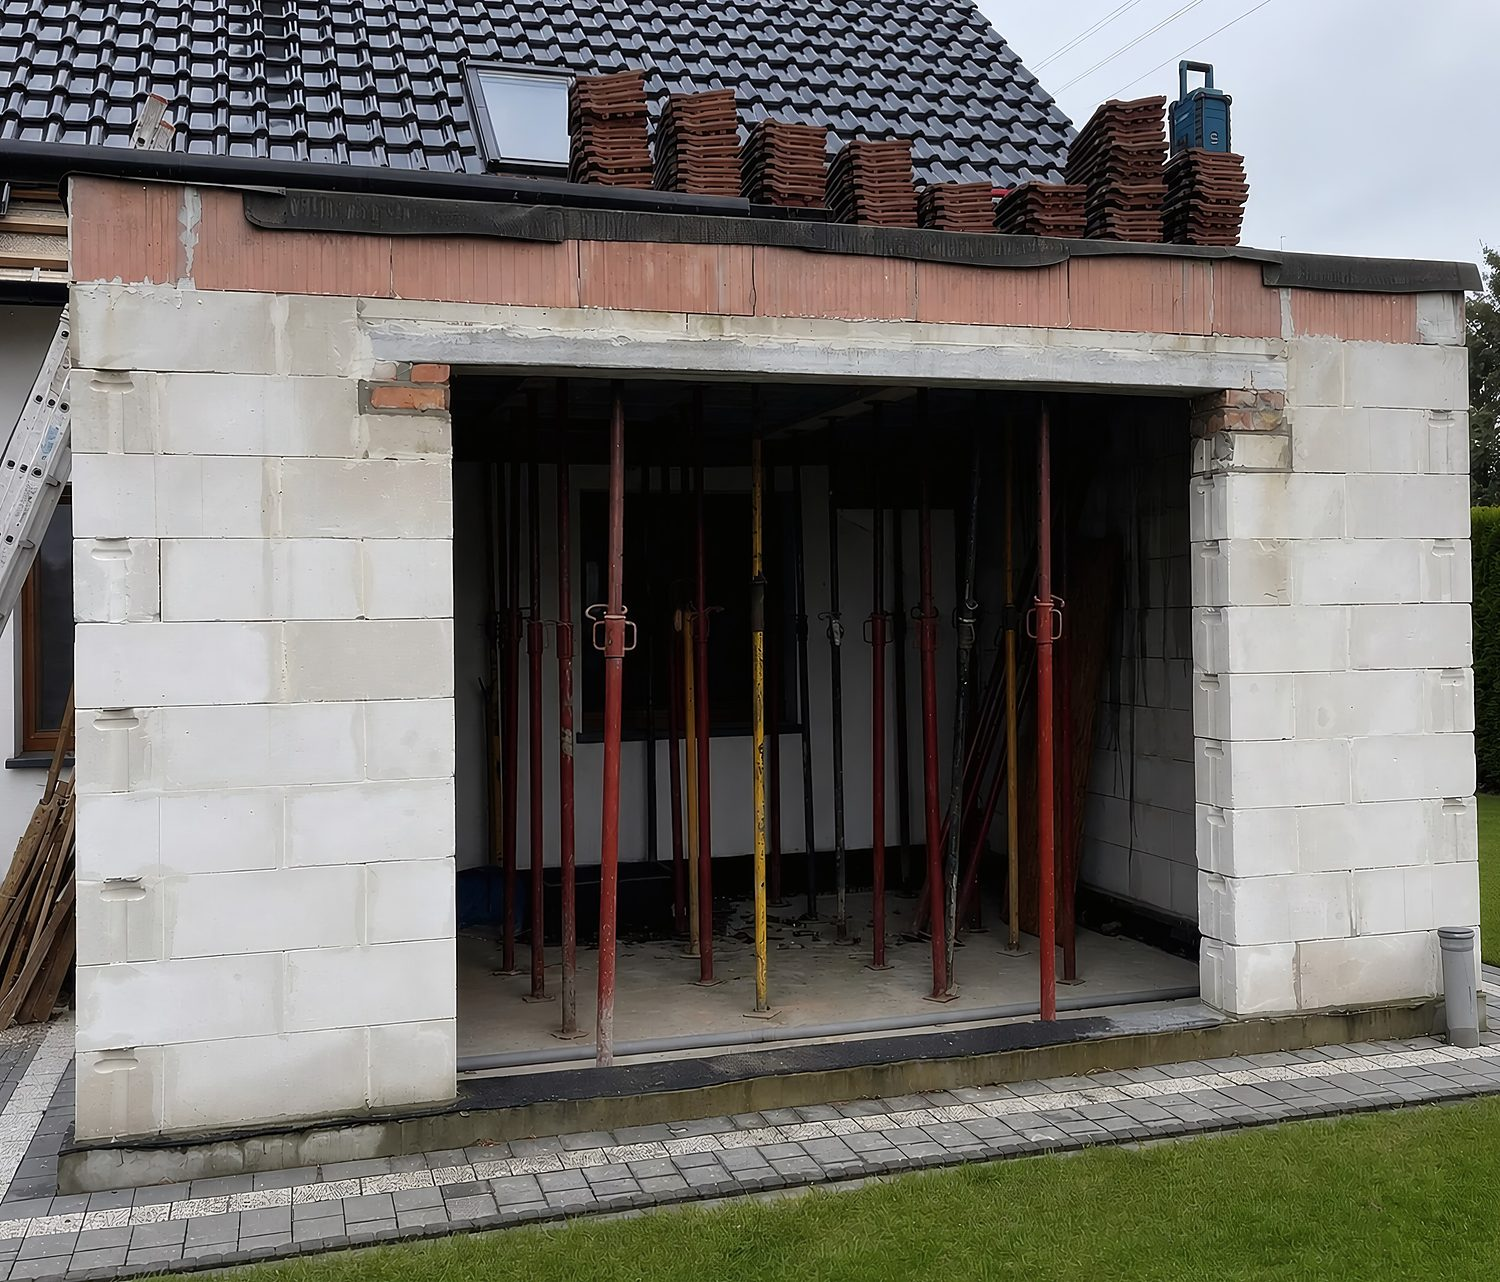
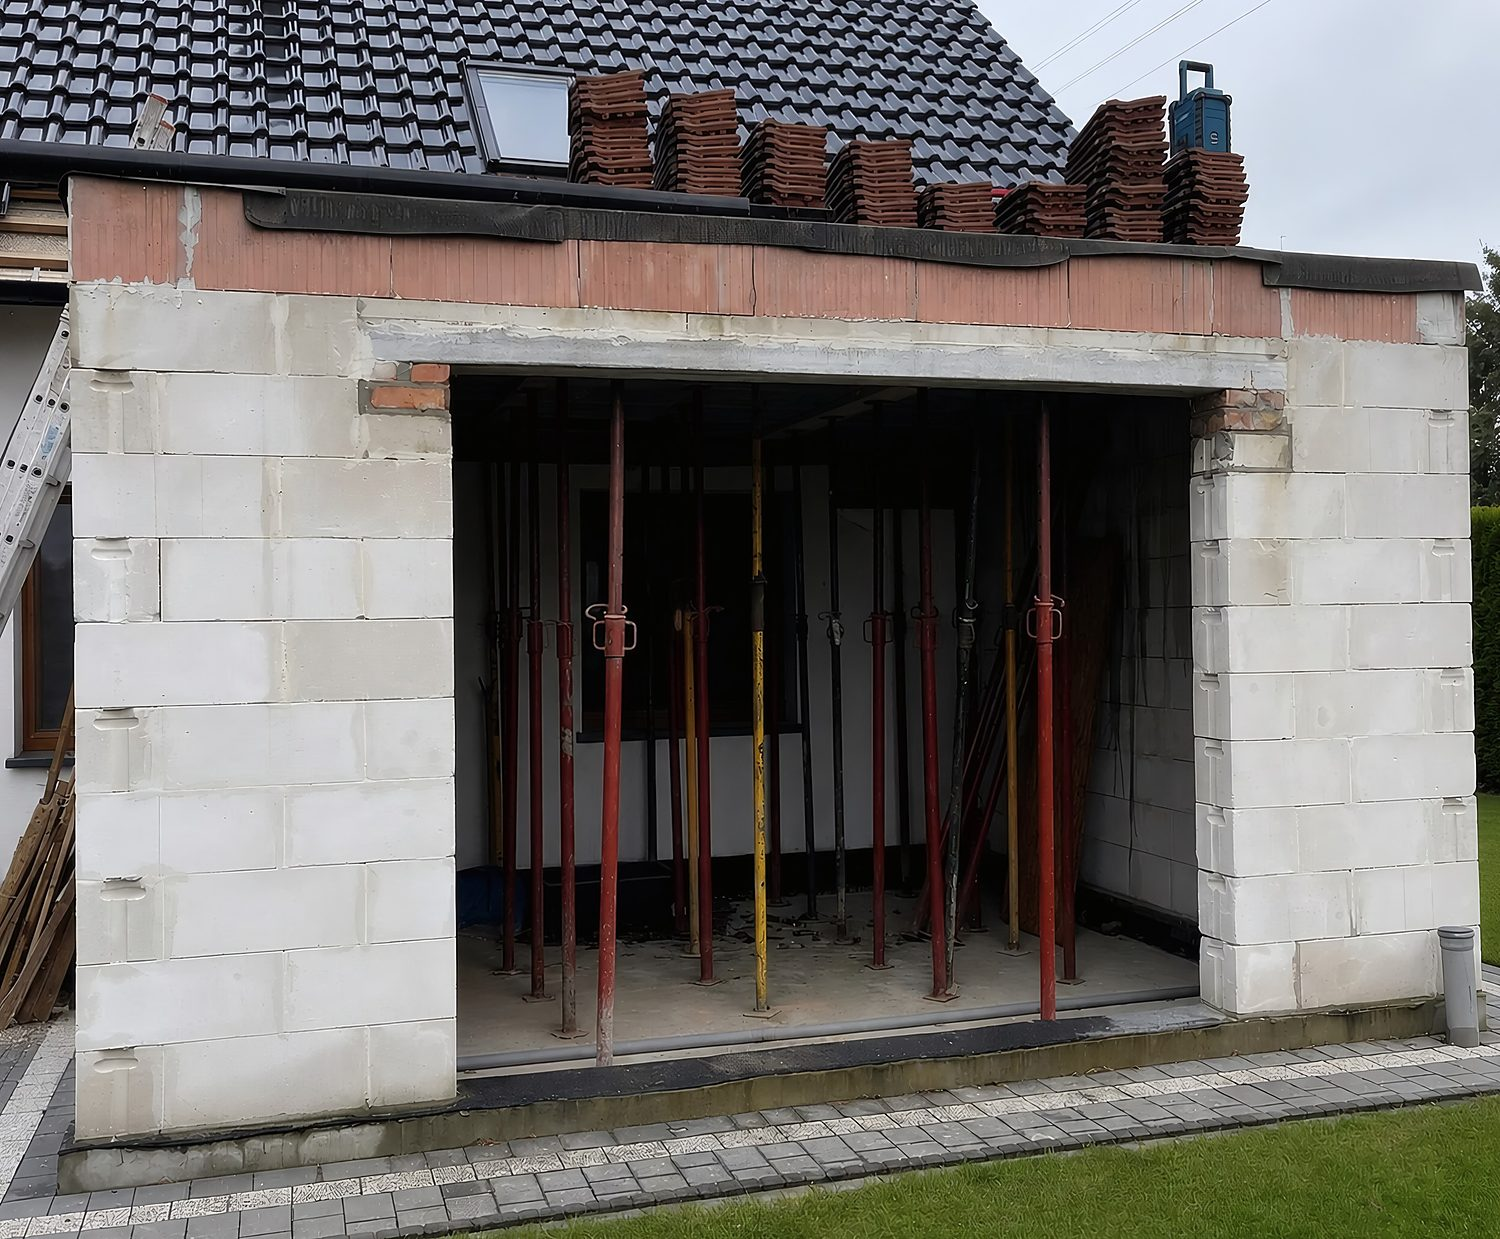
Suwak: dopasowanie kotwiczone na naroznikach elewacji, nie na otworze
K. zauwazyl, ze "przed jest nizej niz po". Przyczyna: pierwsza homografia stala
na czterech rogach otworu drzwiowego, a wykonczone osciezе jest o kilka cm mniejsze
niz surowy otwor w murze - przyklejenie ich co do piksela rozciagalo "po" o ~2 %
i wypychalo reszte elewacji w pionie.

- nowe punkty odniesienia: dwa NAROZNIKI ELEWACJI PRZY GRUNCIE (waga 3) + cztery
  rogi otworu (waga 1), dopasowanie najmniejszymi kwadratami zamiast dokladnego
  rozwiazania z czterech punktow.
- kontrola profilami krawedzi poziomych: linia opaski i gorna krawedz muru
  rozjezdzaja sie teraz o 1-5 jednostek na 1000 zamiast 18+.
- okno kadru przeliczone (998x826, proporcja 1,208); aspect-ratio i width/height
  zaktualizowane razem z nim.
- DESIGN.md: na czym wolno kotwiczyc, a na czym nie.

diff --git a/assets/app.css b/assets/app.css
@@ -303,12 +303,12 @@ a{text-decoration:none}
 /* ⛔ Ramka MUSI być osobnym elementem: `overflow:hidden` na <figure> ucinało podpis. */
 /* 🔴 K. 10.09.2026: „żeby to zdjęcie mieściło się w CAŁOŚCI na ekranie bez względu
    na rozmiar ekranu". Dlatego ograniczamy SZEROKOŚĆ ramki wysokością okna
-   (1,17:1 → 78vh × 1,17), a nie wysokość - przy `max-height` obrazek by się przycinał,
+   (1,21:1 → 78vh × 1,208), a nie wysokość - przy `max-height` obrazek by się przycinał,
    czyli zniknęłaby część kadru, o którą chodzi.
    ⛔ `aspect-ratio` MUSI zgadzać się z `OKNO_SUWAKA` w `przygotuj-media.py`. Rozjazd
    uruchamia `object-fit: cover`, czyli dokładnie to przycięcie, którego tu nie chcemy. */
-.suwak-rama{position:relative;overflow:hidden;line-height:0;aspect-ratio:990/846;
-  width:min(100%,calc(78vh * 1.17));margin-inline:auto;
+.suwak-rama{position:relative;overflow:hidden;line-height:0;aspect-ratio:998/826;
+  width:min(100%,calc(78vh * 1.208));margin-inline:auto;
   touch-action:pan-y;cursor:ew-resize;user-select:none;-webkit-user-select:none}
 .suwak-rama img{position:absolute;inset:0;width:100%;height:100%;object-fit:cover;
   display:block;border-radius:0}
@@ -340,7 +340,7 @@ a{text-decoration:none}
 .suwak-etyk{z-index:2;top:18px}
 .suwak-etyk--przed{left:18px;right:auto}
 .suwak-etyk--po{left:auto;right:18px}
-.suwak figcaption{margin-top:16px;max-width:min(100%,calc(78vh * 1.17));margin-inline:auto;font-size:15px;line-height:1.55;color:var(--przyg-jasny)}
+.suwak figcaption{margin-top:16px;max-width:min(100%,calc(78vh * 1.208));margin-inline:auto;font-size:15px;line-height:1.55;color:var(--przyg-jasny)}
 @media (max-width:700px){
   .suwak-uchwyt>span{width:44px;height:44px}       /* palec potrzebuje >=44 px */
   .suwak-uchwyt{width:52px;margin-left:-26px}

diff --git a/index.html b/index.html
@@ -26,7 +26,7 @@
 <link rel="preload" as="image" href="img/hero.jpg" fetchpriority="high">
 <link rel="preload" as="image" href="img/logo-duze.png" fetchpriority="high">
 <link rel="stylesheet" href="assets/rdzen.css?v=16">
-<link rel="stylesheet" href="assets/app.css?v=24">
+<link rel="stylesheet" href="assets/app.css?v=25">
 <script type="application/ld+json">
 {"@context":"https://schema.org","@type":"HomeAndConstructionBusiness",
 "name":"Firma Ogólnobudowlana Artur Tchórzewski","alternateName":"A.S Tchórzewski","url":"https://as-tchorzewski.pl/",
@@ -165,11 +165,11 @@
     <figure class="suwak rv">
       <div class="suwak-rama" data-suwak style="--x:50%">
       <img class="suwak-po" src="img/po.jpg" srcset="img/po.jpg 1x, img/po@2x.jpg 2x"
-        width="1500" height="1282" decoding="async"
+        width="1500" height="1239" decoding="async"
         alt="Ta sama rozbudowa po wykończeniu: biała elewacja, duże okno tarasowe, trawnik">
       <div class="suwak-przed">
         <img src="img/przed.jpg" srcset="img/przed.jpg 1x, img/przed@2x.jpg 2x"
-          width="1500" height="1282" decoding="async"
+          width="1500" height="1239" decoding="async"
           alt="Ta sama rozbudowa w stanie surowym: mury z bloczków, stemple i otwarty otwór okienny">
       </div>
       <span class="znacznik suwak-etyk suwak-etyk--przed">Przed</span>

diff --git a/404.html b/404.html
@@ -24,7 +24,7 @@
 <link rel="preload" as="font" type="font/woff2" crossorigin
       href="assets/fonty/inter-latin-400-normal.woff2">
 <link rel="stylesheet" href="assets/rdzen.css?v=16">
-<link rel="stylesheet" href="assets/app.css?v=24">
+<link rel="stylesheet" href="assets/app.css?v=25">
 <script type="application/ld+json">
 {"@context":"https://schema.org","@type":"HomeAndConstructionBusiness",
 "name":"Firma Ogólnobudowlana Artur Tchórzewski","alternateName":"A.S Tchórzewski","url":"https://as-tchorzewski.pl/",

diff --git a/co-robimy.html b/co-robimy.html
@@ -24,7 +24,7 @@
 <link rel="preload" as="font" type="font/woff2" crossorigin
       href="assets/fonty/inter-latin-400-normal.woff2">
 <link rel="stylesheet" href="assets/rdzen.css?v=16">
-<link rel="stylesheet" href="assets/app.css?v=24">
+<link rel="stylesheet" href="assets/app.css?v=25">
 <script type="application/ld+json">
 {"@context":"https://schema.org","@type":"HomeAndConstructionBusiness",
 "name":"Firma Ogólnobudowlana Artur Tchórzewski","alternateName":"A.S Tchórzewski","url":"https://as-tchorzewski.pl/",

diff --git a/kontakt.html b/kontakt.html
@@ -24,7 +24,7 @@
 <link rel="preload" as="font" type="font/woff2" crossorigin
       href="assets/fonty/inter-latin-400-normal.woff2">
 <link rel="stylesheet" href="assets/rdzen.css?v=16">
-<link rel="stylesheet" href="assets/app.css?v=24">
+<link rel="stylesheet" href="assets/app.css?v=25">
 <script type="application/ld+json">
 {"@context":"https://schema.org","@type":"HomeAndConstructionBusiness",
 "name":"Firma Ogólnobudowlana Artur Tchórzewski","alternateName":"A.S Tchórzewski","url":"https://as-tchorzewski.pl/",

diff --git a/o-nas.html b/o-nas.html
@@ -24,7 +24,7 @@
 <link rel="preload" as="font" type="font/woff2" crossorigin
       href="assets/fonty/inter-latin-400-normal.woff2">
 <link rel="stylesheet" href="assets/rdzen.css?v=16">
-<link rel="stylesheet" href="assets/app.css?v=24">
+<link rel="stylesheet" href="assets/app.css?v=25">
 <script type="application/ld+json">
 {"@context":"https://schema.org","@type":"HomeAndConstructionBusiness",
 "name":"Firma Ogólnobudowlana Artur Tchórzewski","alternateName":"A.S Tchórzewski","url":"https://as-tchorzewski.pl/",

diff --git a/polityka-prywatnosci.html b/polityka-prywatnosci.html
@@ -24,7 +24,7 @@
 <link rel="preload" as="font" type="font/woff2" crossorigin
       href="assets/fonty/inter-latin-400-normal.woff2">
 <link rel="stylesheet" href="assets/rdzen.css?v=16">
-<link rel="stylesheet" href="assets/app.css?v=24">
+<link rel="stylesheet" href="assets/app.css?v=25">
 <script type="application/ld+json">
 {"@context":"https://schema.org","@type":"HomeAndConstructionBusiness",
 "name":"Firma Ogólnobudowlana Artur Tchórzewski","alternateName":"A.S Tchórzewski","url":"https://as-tchorzewski.pl/",

diff --git a/realizacje.html b/realizacje.html
@@ -24,7 +24,7 @@
 <link rel="preload" as="font" type="font/woff2" crossorigin
       href="assets/fonty/inter-latin-400-normal.woff2">
 <link rel="stylesheet" href="assets/rdzen.css?v=16">
-<link rel="stylesheet" href="assets/app.css?v=24">
+<link rel="stylesheet" href="assets/app.css?v=25">
 <script type="application/ld+json">
 {"@context":"https://schema.org","@type":"HomeAndConstructionBusiness",
 "name":"Firma Ogólnobudowlana Artur Tchórzewski","alternateName":"A.S Tchórzewski","url":"https://as-tchorzewski.pl/",

diff --git a/przygotuj-media.py b/przygotuj-media.py
@@ -266,40 +266,64 @@ def logo():
 #     nowa, inaczej suwak rozjedzie się bardziej niż przed poprawką.
 #  ⛔ Kolejność rogów: lewy górny, prawy górny, prawy dolny, lewy dolny.
 # ══════════════════════════════════════════════════════════════════════════════
-# rogi otworu drzwiowego w skali 0-1000 (zmierzone 10.09.2026)
-ROGI_PRZED = [(300, 253), (800, 250), (800, 672), (300, 693)]
-ROGI_PO = [(377, 367), (719, 400), (719, 757), (377, 800)]
-# Wspólne okno kadru, też w skali 0-1000. 🔴 K. 10.09.2026: „nie ucinaj tak zdjęcia,
-# ma być całe widoczne, tylko dopasowane najlepiej jak się da". Po dopasowaniu zdjęcie
-# „po" pokrywa 92 % kwadratu „przed", a NAJWIĘKSZY wspólny prostokąt to praktycznie
-# pełna szerokość i 85 % wysokości - policzone maską pokrycia, nie na oko. Odpada tylko
-# dolny pas trawnika (tam i tak siedzi znak wodny klienta). Proporcja wychodzi 1,17:1
-# i taka MUSI stać w `aspect-ratio` ramki w `app.css` oraz w atrybutach width/height.
-OKNO_SUWAKA = (4, 4, 994, 850)
+# ── PUNKTY ODNIESIENIA (skala 0-1000, niezależna od rozdzielczości pliku) ──────
+# 🔴 Pierwsze podejście brało WYŁĄCZNIE cztery rogi otworu drzwiowego i to był błąd:
+#    po wykończeniu ościeże jest o kilka centymetrów mniejsze niż surowy otwór
+#    w murze, więc przyklejenie ich do siebie co do piksela rozciągało całe zdjęcie
+#    „po" o ~2 % i wypychało resztę elewacji w pionie (K.: „mam wrażenie, że przed
+#    jest niżej niż po"). Teraz kotwicą są NAROŻNIKI ELEWACJI PRZY GRUNCIE - tych
+#    wykończenie nie rusza - a rogi otworu wchodzą jako wskazówka o mniejszej wadze.
+#    Dopasowanie liczy się najmniejszymi kwadratami, więc błąd rozkłada się po całym
+#    kadrze zamiast siedzieć w jednym miejscu.
+# ⛔ Zmieniasz zdjęcie w parze → mierzysz punkty od nowa na zrzutach z siatką.
+PARY_SUWAKA = [
+    # (punkt na PRZED, ten sam punkt na PO)
+    ((52, 755), (100, 900)),      # lewy narożnik elewacji przy gruncie
+    ((981, 661), (858, 731)),     # prawy narożnik elewacji przy gruncie
+    ((300, 253), (377, 367)),     # otwór: lewy górny
+    ((800, 250), (719, 400)),     # otwór: prawy górny
+    ((800, 672), (719, 757)),     # otwór: prawy dolny
+    ((300, 693), (377, 800)),     # otwór: lewy dolny
+]
+WAGI_SUWAKA = [3.0, 3.0, 1.0, 1.0, 1.0, 1.0]
+
+# Wspólne okno kadru, też w skali 0-1000. 🔴 K.: „nie ucinaj tak zdjęcia, ma być całe
+# widoczne, tylko dopasowane najlepiej jak się da". Po dopasowaniu „po" pokrywa ~90 %
+# kwadratu „przed"; to jest największy prostokąt mieszczący się w OBU - policzony maską
+# pokrycia, nie na oko. Odpada tylko dolny pas trawnika ze znakiem wodnym klienta.
+# Proporcja 998/826 = 1,208 MUSI stać w `aspect-ratio` ramki w `app.css`
+# i w atrybutach width/height w `pages.py`.
+OKNO_SUWAKA = (4, 4, 994, 822)
 SUWAK = [("przed.jpg", 1500, 82), ("przed@2x.jpg", 2400, 76),
          ("po.jpg", 1500, 82), ("po@2x.jpg", 2400, 76)]
 
 
-def _homografia(zrodlo, cel):
-    """Współczynniki dla PIL: piksel WYJŚCIOWY → piksel WEJŚCIOWY."""
+def _homografia(pary, wagi, skala):
+    """Macierz przenosząca PO w układ PRZED, z najmniejszych kwadratów.
+    `skala` przelicza punkty ze skali 0-1000 na piksele przestrzeni roboczej."""
     import numpy as np
-    A, B = [], []
-    for (xc, yc), (xz, yz) in zip(cel, zrodlo):
-        A.append([xc, yc, 1, 0, 0, 0, -xz * xc, -xz * yc]); B.append(xz)
-        A.append([0, 0, 0, xc, yc, 1, -yz * xc, -yz * yc]); B.append(yz)
-    return np.linalg.solve(np.array(A, float), np.array(B, float))
+    A, B, W = [], [], []
+    for ((xd, yd), (xs, ys)), w in zip(pary, wagi):
+        xd, yd, xs, ys = xd * skala, yd * skala, xs * skala, ys * skala
+        A.append([xs, ys, 1, 0, 0, 0, -xd * xs, -xd * ys]); B.append(xd); W.append(w)
+        A.append([0, 0, 0, xs, ys, 1, -yd * xs, -yd * ys]); B.append(yd); W.append(w)
+    W = np.sqrt(np.array(W, float))
+    h, *_ = np.linalg.lstsq(np.array(A, float) * W[:, None], np.array(B, float) * W, rcond=None)
+    M = np.array([[h[0], h[1], h[2]], [h[3], h[4], h[5]], [h[6], h[7], 1.0]])
+    # PIL chce przekształcenia ODWROTNEGO: piksel wyjściowy → piksel wejściowy
+    odw = np.linalg.inv(M).ravel()
+    return (odw / odw[8])[:8]
 
 
 def suwak_przed_po():
     N = 2500                                   # przestrzeń robocza dopasowania
-    skala = lambda pkt: [(x * N / 1000, y * N / 1000) for x, y in pkt]
 
     przed = ImageOps.exif_transpose(Image.open(zrodlo("PRZED-rozbudowa.jpg")))
     przed = przed.convert("RGB").resize((N, N), Image.LANCZOS)
     po = ImageOps.exif_transpose(Image.open(zrodlo("PO-rozbudowa.jpg")))
     po = po.convert("RGB").resize((N, N), Image.LANCZOS)
     po = po.transform((N, N), Image.PERSPECTIVE,
-                      _homografia(skala(ROGI_PO), skala(ROGI_PRZED)), Image.BICUBIC)
+                      _homografia(PARY_SUWAKA, WAGI_SUWAKA, N / 1000), Image.BICUBIC)
 
     box = tuple(int(round(v * N / 1000)) for v in OKNO_SUWAKA)
     prop = (OKNO_SUWAKA[2] - OKNO_SUWAKA[0]) / (OKNO_SUWAKA[3] - OKNO_SUWAKA[1])

diff --git a/pages.py b/pages.py
@@ -427,11 +427,11 @@ def index(naglowek):
     <figure class="suwak rv">
       <div class="suwak-rama" data-suwak style="--x:50%">
       <img class="suwak-po" src="img/po.jpg" srcset="img/po.jpg 1x, img/po@2x.jpg 2x"
-        width="1500" height="1282" decoding="async"
+        width="1500" height="1239" decoding="async"
         alt="Ta sama rozbudowa po wykończeniu: biała elewacja, duże okno tarasowe, trawnik">
       <div class="suwak-przed">
         <img src="img/przed.jpg" srcset="img/przed.jpg 1x, img/przed@2x.jpg 2x"
-          width="1500" height="1282" decoding="async"
+          width="1500" height="1239" decoding="async"
           alt="Ta sama rozbudowa w stanie surowym: mury z bloczków, stemple i otwarty otwór okienny">
       </div>
       <span class="znacznik suwak-etyk suwak-etyk--przed">Przed</span>

diff --git a/build.py b/build.py
@@ -38,7 +38,7 @@ NIP = "995 004 44 65"
 REGON = "363138510"
 
 # 🔄 Podbij przy KAŻDEJ zmianie pliku, inaczej klient zostanie na starej wersji.
-V_CSS = 24
+V_CSS = 25
 V_RDZEN = 16
 
 # 🔴 PODGLĄD ROBOCZY. Strona stoi na zdjęciach klienta, na które NIE MAMY jeszcze

diff --git a/DESIGN.md b/DESIGN.md
@@ -481,10 +481,10 @@ K. 10.09.2026: **„nie ucinaj tak zdjęcia — ma być całe widoczne, tylko do
 najlepiej, jak się da"**. Kolejność jest więc odwrotna niż zwykle: najpierw liczymy,
 ile da się pokazać, dopiero potem wychodzi z tego proporcja.
 
-Po dopasowaniu homografią zdjęcie „po" pokrywa **92 %** kwadratu zdjęcia „przed”.
+Po dopasowaniu homografią zdjęcie „po" pokrywa **ok. 90 %** kwadratu zdjęcia „przed”.
 Największy prostokąt mieszczący się w OBU (policzony maską pokrycia w
 `przygotuj-media.py`, nie na oko) to praktycznie pełna szerokość i 85 % wysokości —
-stąd **1,17:1**. Odpada tylko dolny pas trawnika, w którym i tak siedzi znak wodny.
+stąd **1,21:1**. Odpada tylko dolny pas trawnika, w którym i tak siedzi znak wodny.
 
 🔴 Trzy miejsca muszą mówić to samo: `OKNO_SUWAKA` w `przygotuj-media.py`,
 `aspect-ratio` w `.suwak-rama` i atrybuty `width`/`height` w `pages.py`. Rozjazd
@@ -492,3 +492,19 @@ uruchamia `object-fit: cover`, czyli dokładnie to przycięcie, którego tu nie 
 
 Cały kadr mieści się na ekranie, bo ramka ma ograniczoną **szerokość**
 (`min(100%, 78vh × 1,17)`), a nie wysokość — `max-height` przyciąłby obrazek.
+
+
+### Na czym kotwiczymy dopasowanie (poprawka z 10.09.2026 wieczorem)
+
+Pierwsza wersja brała **wyłącznie cztery rogi otworu drzwiowego** i to był błąd:
+po wykończeniu ościeże jest o kilka centymetrów mniejsze niż surowy otwór w murze,
+więc przyklejenie ich do siebie co do piksela rozciągało zdjęcie „po" o ~2 % i wypychało
+resztę elewacji w pionie. K. zobaczył to od razu: *„mam wrażenie, że przed jest niżej niż po"*.
+
+🔴 **Kotwicą są NAROŻNIKI ELEWACJI PRZY GRUNCIE** — ich wykończenie nie rusza. Rogi otworu
+wchodzą jako wskazówka o mniejszej wadze (3 : 1), a całość liczy się **najmniejszymi
+kwadratami**, więc resztkowy błąd rozkłada się po kadrze zamiast siedzieć w jednym miejscu.
+Kontrola po zmianie (profile krawędzi poziomych, pasma po lewej i prawej stronie):
+linia opaski i górna krawędź muru rozjeżdżają się o **1–5 jednostek na 1000** zamiast 18+.
+
+⛔ Nie kotwiczyć na elementach, które zmieniło wykończenie: ościeża, parapety, obróbki.
